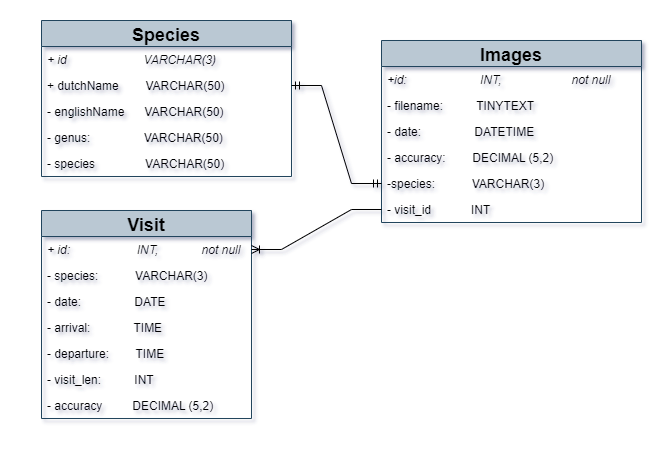
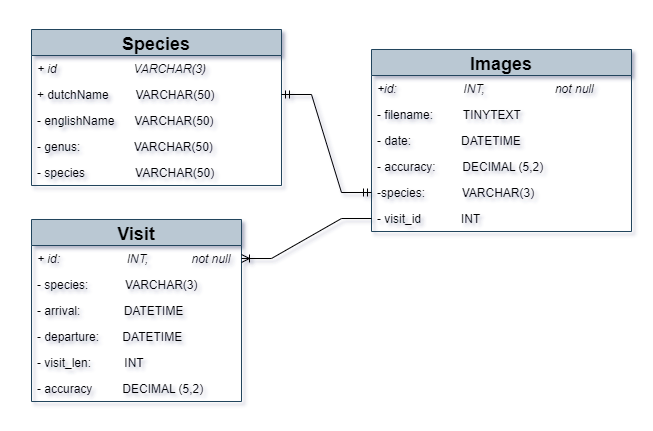
Slightly changed database design

diff --git a/python/getBirdImages.py b/python/getBirdImages.py
@@ -1,0 +1,67 @@
+#!/usr/bin/env python3
+# -*- coding: utf-8 -*-
+"""
+Created on Fri Mar 11 14:28:58 2022
+
+@author: tom
+"""
+
+import flickrapi
+import xml.etree.ElementTree as ET
+import urllib.request
+import os
+import datetime
+
+# Will need to go into ...\site-packages\flickrapi\core.py
+# and change line 690 to photoset = list(rsp)[0]
+
+
+
+# open the .txt list of bird species and read them in as a list 
+with open("/home/tom/Projects/Bird Detection/bird_species.txt") as birds_file:
+    birds = [line.strip() for line in birds_file]
+
+#get an api key and secret from flickr
+api_key = u'b4a1c0168405aae7971233f352cac57a'
+api_secret = u'65c263d43f48b13d'
+flickr = flickrapi.FlickrAPI(api_key, api_secret)
+
+
+
+for bird in birds:
+    
+    print(f'Fetching images for the {bird}')
+    time_start = datetime.datetime.now()
+    
+    photos = flickr.walk(text=bird,
+                        tag_mode='all',
+                        tags=bird,
+                        extras='url_c',
+                        privacy_filters = 1,
+                        per_page=500,         
+                        sort='relevance')
+
+    for i, photo in enumerate(photos):
+        url = photo.get('url_c')
+        #if an error occurs just keep moving
+        try:
+            if i > 1500:
+                break
+            else:
+                TrainDirectory = f'/home/tom/ResearchData/birdberry/BirdSpecies/{bird}'
+                #check if directory exists
+                if not os.path.exists(TrainDirectory):
+                    os.makedirs(TrainDirectory)
+                #create file path    
+                filepath = os.path.join(TrainDirectory, f'{i-9}.jpg')
+                # Download image from the url and save it to '00001.jpg'
+                urllib.request.urlretrieve(url, filepath)
+        except:
+            pass
+    
+    time_end = datetime.datetime.now()
+    print(f'Duration of process: {time_end - time_start}')
+    print('\n###########\n')
+
+
+

diff --git a/python/classObj.py b/python/classObj.py
@@ -1,0 +1,50 @@
+#!/usr/bin/env python3
+# -*- coding: utf-8 -*-
+"""
+Created on Wed Mar  9 20:57:37 2022
+
+@author: tom
+"""
+
+
+import os
+import numpy as np
+import tensorflow as tf
+assert tf.__version__.startswith('2')
+import matplotlib.pyplot as plt
+import tensorflow.lite as tflite
+import cv2
+import numpy as np
+
+# Load TFLite model and allocate tensors.
+interpreter = tflite.Interpreter(model_path='/home/tom/Projects/Bird Detection/models/Birds_vs_Rest-TFLite_97acc/saved_model.tflite')
+
+#allocate the tensors
+interpreter.allocate_tensors()
+
+input_details = interpreter.get_input_details()
+output_details = interpreter.get_output_details()
+
+
+image_path='/home/tom/Pictures/vogel.jpg'
+img = cv2.imread(image_path)
+img = cv2.resize(img,(300,300))
+
+#Preprocess the image to required size and cast
+input_shape = input_details[0]['shape']
+input_tensor= np.array(np.expand_dims(img,0))
+
+
+input_index = interpreter.get_input_details()[0]["index"]
+interpreter.set_tensor(input_index, input_tensor)
+interpreter.invoke()
+output_details = interpreter.get_output_details()
+
+output_data = interpreter.get_tensor(output_details[0]['index'])
+pred = np.squeeze(output_data)
+
+highest_pred_loc = np.argmax(pred)
+
+bird_name = class_ind[highest_pred_loc]
+print(f"It's a wild {bird_name}! So cute.")
+

diff --git a/python/saveImage.py b/python/saveImage.py
@@ -16,6 +16,7 @@ import databaseConnector
 
 
 def renameAndMove(filePath):
+    '''Renames the file with with time and day of capture. Also moves the file to a new loction'''
     
     #change the filename to a timestamp
     creationDate = os.path.getmtime(filePath)
@@ -23,10 +24,17 @@ def renameAndMove(filePath):
     
     t_obj = time.strptime(creationTime)
     timeStamp = time.strftime("%d-%m-%Y_%H-%M-%S", t_obj)
-    newPath = os.path.join('/home/tom/Pictures/tmp/', str(timeStamp)) + ".jpg"
+    newPath = os.path.join('/home/tom/Pictures/tmp/bird', str(timeStamp)) + ".jpg"
     
     os.rename(filePath, newPath)
     return newPath
+
+def saveFalsePicture(filePath):
+    '''Saves the pictures of non-birds to a new location'''
+    file_base_name = os.path.basename(filePath)
+    new_path = os.path.join('/home/tom/Pictures/tmp/false', file_base_name)
+    
+    os.rename(filePath, new_path)
 
 
 def write(filePath, accuracy):

diff --git a/python/createVisits.py b/python/createVisits.py
@@ -22,11 +22,12 @@ def getCurrentId():
     idCursor.execute(idQuery)
     
     highestId = idCursor.fetchone()
-    highestId = int(highestId[0])
+    print(highestId)
     
-    if highestId == None:
+    if highestId[0] == None:
         return 1
     else:
+        highestId = int(highestId[0])
         return highestId + 1
 
 
@@ -38,9 +39,8 @@ def makeVisit(visitList):
     departure = visitList[-1][1]    
     visit_len = (departure - arrival).total_seconds()
     visit_len = int(visit_len)
-    day = arrival.date()
     
-    insertQuery = f"INSERT INTO Visit (id, day, arrival, departure, visit_len) VALUES ('{currentId}','{day}','{arrival.time()}','{departure.time()}','{visit_len}');"
+    insertQuery = f"INSERT INTO Visit (id, arrival, departure, visit_len) VALUES ('{currentId}','{arrival}','{departure}','{visit_len}');"
     insertCursor = db.cursor()
     insertCursor.execute(insertQuery)
     db.commit()
